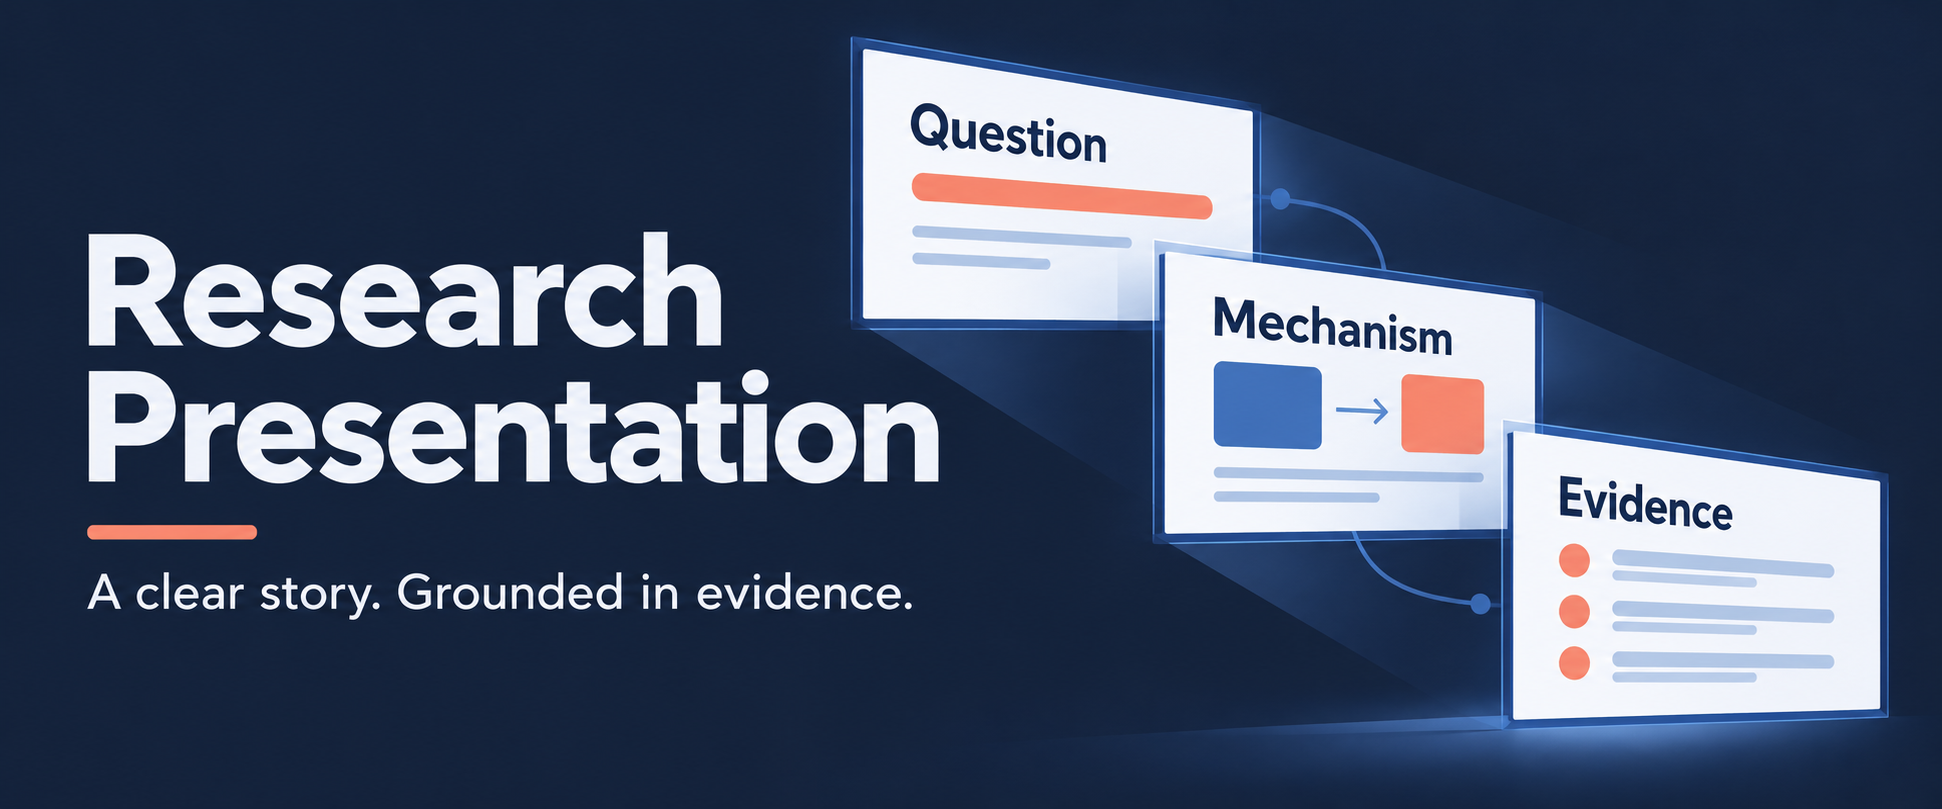
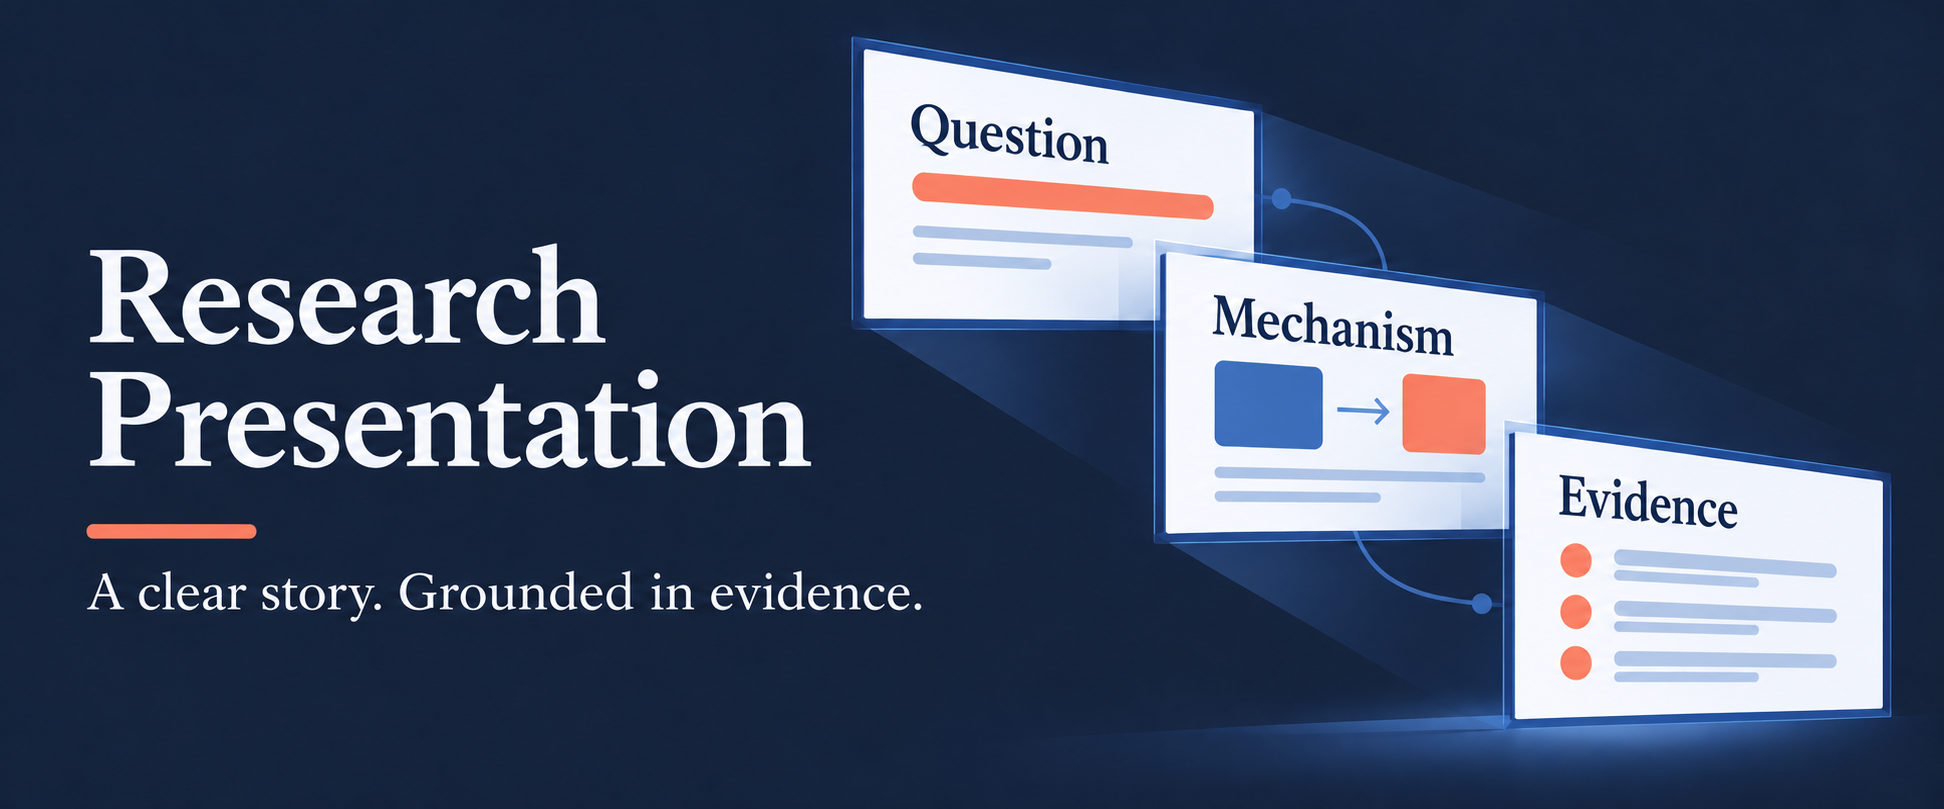
Use serif typography for bilingual README covers

diff --git a/docs/previews/cover-prompts.md b/docs/previews/cover-prompts.md
@@ -1,6 +1,6 @@
 # README cover prompts
 
-Created with the built-in ImageGen tool. The English image establishes the composition; Chinese localizes the same image. These are conceptual storyboard illustrations, not application screenshots or research results.
+Created with the built-in ImageGen tool. The initial English image establishes the composition; Chinese localizes the same image. The final two editing prompts apply regular book-serif typography in English and upright Songti in Chinese while preserving the palette and storyboard. These are conceptual storyboard illustrations, not application screenshots or research results.
 
 ## English
 
@@ -22,3 +22,15 @@ Replace the large left title with "研究汇报", using four large elegant Chine
 Replace the small subtitle with "从材料出发，用证据讲清研究。".
 Replace the three frame labels with "问题", "机制", "证据", respectively, preserving their prominence and all frame positions, abstract marks, connectors and lighting.
 No additional words, no English, no green, no paper texture, no experimental values, no fake citations, no actual app UI. These remain conceptual storyboard motifs. Keep the image sharp and readable at GitHub article width.
+
+## Final typography: English book serif
+
+```text
+Use case: precise-object-edit. Edit ONLY the typography of this existing English Research Presentation README cover. Preserve the exact wide 2.4:1 canvas, midnight navy #18243C background, near-white #EFF3FB, blue #4776C8 linework, coral #F38167 accents, all three projected slide frames and their positions, rectangles, rules, connecting curves, lighting, depth and illustration. Do not redesign or move any graphic. Replace ALL readable sans-serif type with normal upright REGULAR book-serif typography comparable to Baskerville Regular or Source Serif Regular, with moderate stroke contrast, sturdy readable serifs and natural proportions. No bold display serif, Didot hairlines, italics, calligraphy, ligatures, warping, stretched or compressed glyphs, perspective distortion of lettering, or three-dimensional letter effects. Keep the left title on exactly two lines: 'Research' then 'Presentation'. Reduce the title's current size by about 20 percent and make it regular weight, maintaining its left alignment and its existing left-column title region; relaxed line spacing around 1.2, more unused space around the title. Keep the coral rule in its current position. Preserve the exact subtitle 'A clear story. Grounded in evidence.' on one line below the rule, slightly smaller than its current size, in regular book serif, with generous breathing room. Change the three frame labels 'Question', 'Mechanism', 'Evidence' to the same upright regular serif at their existing positions and approximately current readable sizes, fitting each slide. Preserve every word and all other geometry. Do not add any text, graphics, colors, paper texture or decorative elements. The result is the same navy storyboard cover with calm, accurately typeset serif text.
+```
+
+## Final typography: Chinese upright Songti
+
+```text
+Use case: precise-object-edit. Edit ONLY the typography of this existing Simplified Chinese Research Presentation README cover. Preserve the exact 2.4:1 canvas, midnight navy #18243C background, near-white #EFF3FB slide surfaces, blue #4776C8 linework, coral #F38167 accents, all three projected slide frames, all rectangles, rules, connectors, lighting, depth and every graphic position. Do not redesign the composition. Replace ALL readable Chinese sans-serif type with accurate standard UPRIGHT REGULAR SONGTI / Chinese book serif comparable to Source Han Serif SC Regular or Songti SC Regular. Natural square Chinese character proportions, moderate stroke contrast, restrained serifs, normal intact strokes. Absolutely no bold display Songti, exaggerated triangular terminals, extreme hairlines, calligraphy, italics, leaning character axes, squeezed, stretched, skewed, warped, bent or perspective-distorted lettering. Exact left title stays '研究汇报' on ONE horizontal line, reduce its current size by about 20 percent and use regular weight, keeping the same left margin and existing title area with generous whitespace. Keep the coral rule in its exact current position. Exact subtitle stays '从材料出发，用证据讲清研究。' on one horizontal line below the rule, around 15 percent smaller than current, with comfortable spacing and regular upright Songti. Exact right frame labels stay '问题', '机制', '证据', in the same positions and approximately existing readable sizes, now regular upright Songti fitting comfortably within each slide. Keep all text flat and undistorted even where slide frames have depth. Preserve every character, punctuation mark and all other geometry. No new text, English, graphics, colors, paper texture or decorative elements. The result is the same navy storyboard cover with calm, straight, accurately printed Songti typography.
+```

diff --git a/docs/visuals.md b/docs/visuals.md
@@ -6,6 +6,10 @@ Midnight navy frames the research story, ice-white carries the slides, blue mark
 
 深海军蓝承载研究故事，冰白呈现投影片，蓝色表示导航与选中状态，珊瑚橙强调证据边界。README 封面与互动示例使用同一套颜色语义。技能生成的具体研究汇报仍应按主题选择适合的配色。
 
+The covers use regular upright book-serif typography in English and Songti in Chinese. The title block has relaxed spacing within the original storyboard composition.
+
+封面英文采用规整的直立书籍衬线体，中文采用宋体；在原有分镜构图内，以舒展的标题间距建立层次。
+
 | Asset / 资源 | Source and purpose / 来源与用途 |
 |---|---|
 | [readme-cover-en.png](previews/readme-cover-en.png) | English conceptual storyboard, created with built-in ImageGen / 内置 ImageGen 生成的英文概念分镜 |
